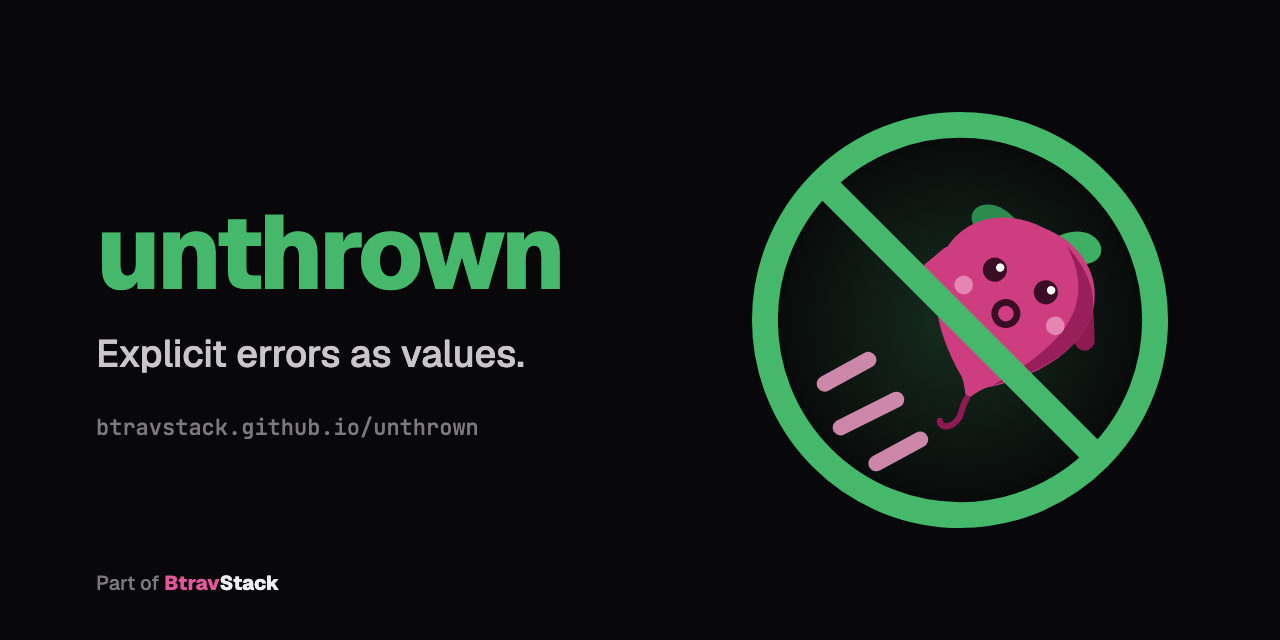
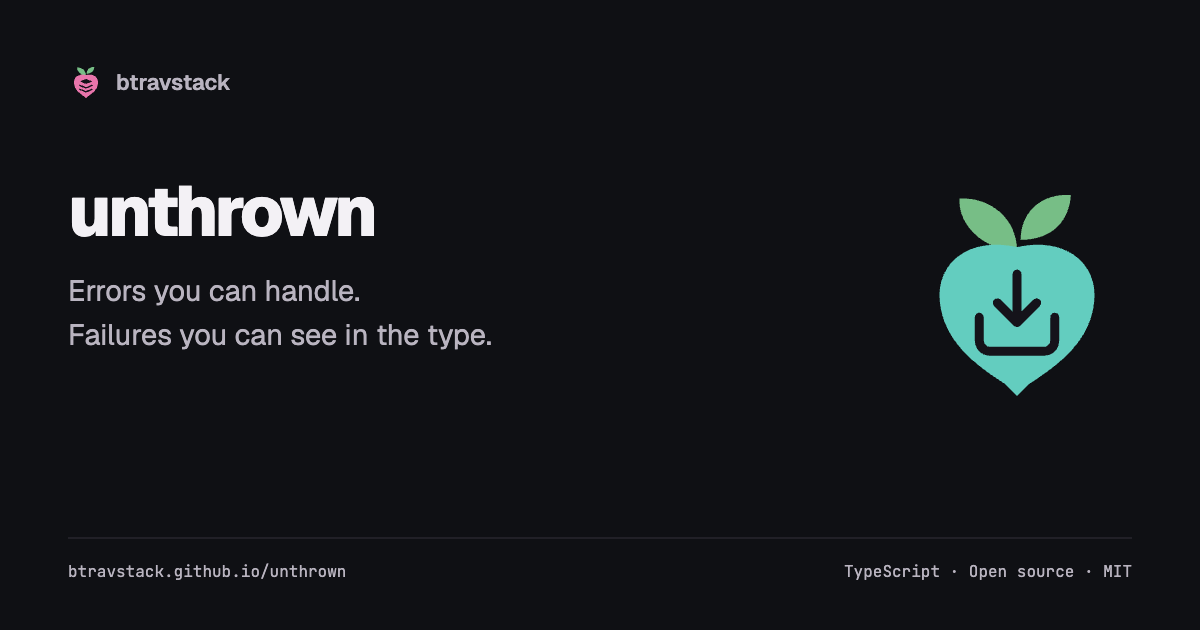
docs: refresh unthrown project branding

diff --git a/docs/.vitepress/config.ts b/docs/.vitepress/config.ts
@@ -185,7 +185,7 @@ export default defineConfig({
   },
 
   themeConfig: {
-    logo: { light: "/logo-light.svg", dark: "/logo-dark.svg" },
+    logo: { light: "/logo-light.svg", dark: "/logo-dark.svg", alt: "unthrown logo" },
 
     nav: [
       // The guide is organised by the four Diátaxis modes; the dropdown links
@@ -259,7 +259,7 @@ export default defineConfig({
   },
 
   head: [
-    ["link", { rel: "icon", type: "image/svg+xml", href: `${BASE}logo.svg` }],
+    ["link", { rel: "icon", type: "image/svg+xml", href: `${BASE}favicon.svg` }],
     ["meta", { name: "author", content: "Benoit TRAVERS" }],
     ["meta", { name: "robots", content: "index, follow" }],
     ["meta", { name: "application-name", content: "unthrown" }],
@@ -275,10 +275,7 @@ export default defineConfig({
     ["meta", { property: "og:type", content: "website" }],
     ["meta", { property: "og:site_name", content: "unthrown" }],
     ["meta", { property: "og:locale", content: "en_US" }],
-    [
-      "meta",
-      { property: "og:image", content: "https://btravstack.github.io/unthrown/og-unthrown.png" },
-    ],
+    ["meta", { property: "og:image", content: `${SITE_URL}og-unthrown.png` }],
     ["meta", { property: "og:image:type", content: "image/png" }],
     ["meta", { property: "og:image:width", content: "1200" }],
     ["meta", { property: "og:image:height", content: "630" }],
@@ -291,10 +288,7 @@ export default defineConfig({
     ],
     // Twitter Card
     ["meta", { name: "twitter:card", content: "summary_large_image" }],
-    [
-      "meta",
-      { name: "twitter:image", content: "https://btravstack.github.io/unthrown/og-unthrown.png" },
-    ],
+    ["meta", { name: "twitter:image", content: `${SITE_URL}og-unthrown.png` }],
     [
       "meta",
       {

diff --git a/docs/branding/README.md b/docs/branding/README.md
@@ -1,0 +1,20 @@
+# unthrown branding
+
+The mark belongs to the shared btravstack family. Its editable source is
+[`scripts/generate-brand.mjs`](https://github.com/btravstack/btravstack.github.io/blob/main/scripts/generate-brand.mjs)
+in the website repository. Regenerate there, then copy the project assets from
+`apps/website/public/logos/` into this repository's `docs/public/`:
+
+- `unthrown-light.svg` → `logo-light.svg` and `logo.svg` (the default).
+- `unthrown-dark.svg` → `logo-dark.svg`.
+- `unthrown-mono.svg` → `logo-mono.svg`.
+- `unthrown-favicon.svg` → `favicon.svg`.
+
+The README and documentation navigation and hero use the light/dark pair.
+The favicon has a solid background for legibility at small sizes.
+The social preview is `og-unthrown.png`, a 1200 × 630 PNG using the same mark.
+Its editable source is the website's
+[`branding/social-card.html`](https://github.com/btravstack/btravstack.github.io/blob/main/branding/social-card.html),
+rendered with `?project=unthrown`.
+Keep its dimensions in the VitePress metadata in sync when replacing it.
+Assets are committed locally; rendering never fetches branding from another site.

diff --git a/README.md b/README.md
@@ -1,6 +1,9 @@
 <div align="center">
 
-<img src="docs/public/logo.svg" alt="unthrown" width="128" height="128" />
+<picture>
+  <source media="(prefers-color-scheme: dark)" srcset="docs/public/logo-dark.svg">
+  <img src="docs/public/logo-light.svg" alt="unthrown logo" width="128" height="128" />
+</picture>
 
 # unthrown
 

diff --git a/docs/index.md b/docs/index.md
@@ -10,7 +10,7 @@ hero:
   image:
     light: /logo-light.svg
     dark: /logo-dark.svg
-    alt: unthrown
+    alt: unthrown logo
   actions:
     - theme: brand
       text: Get Started
